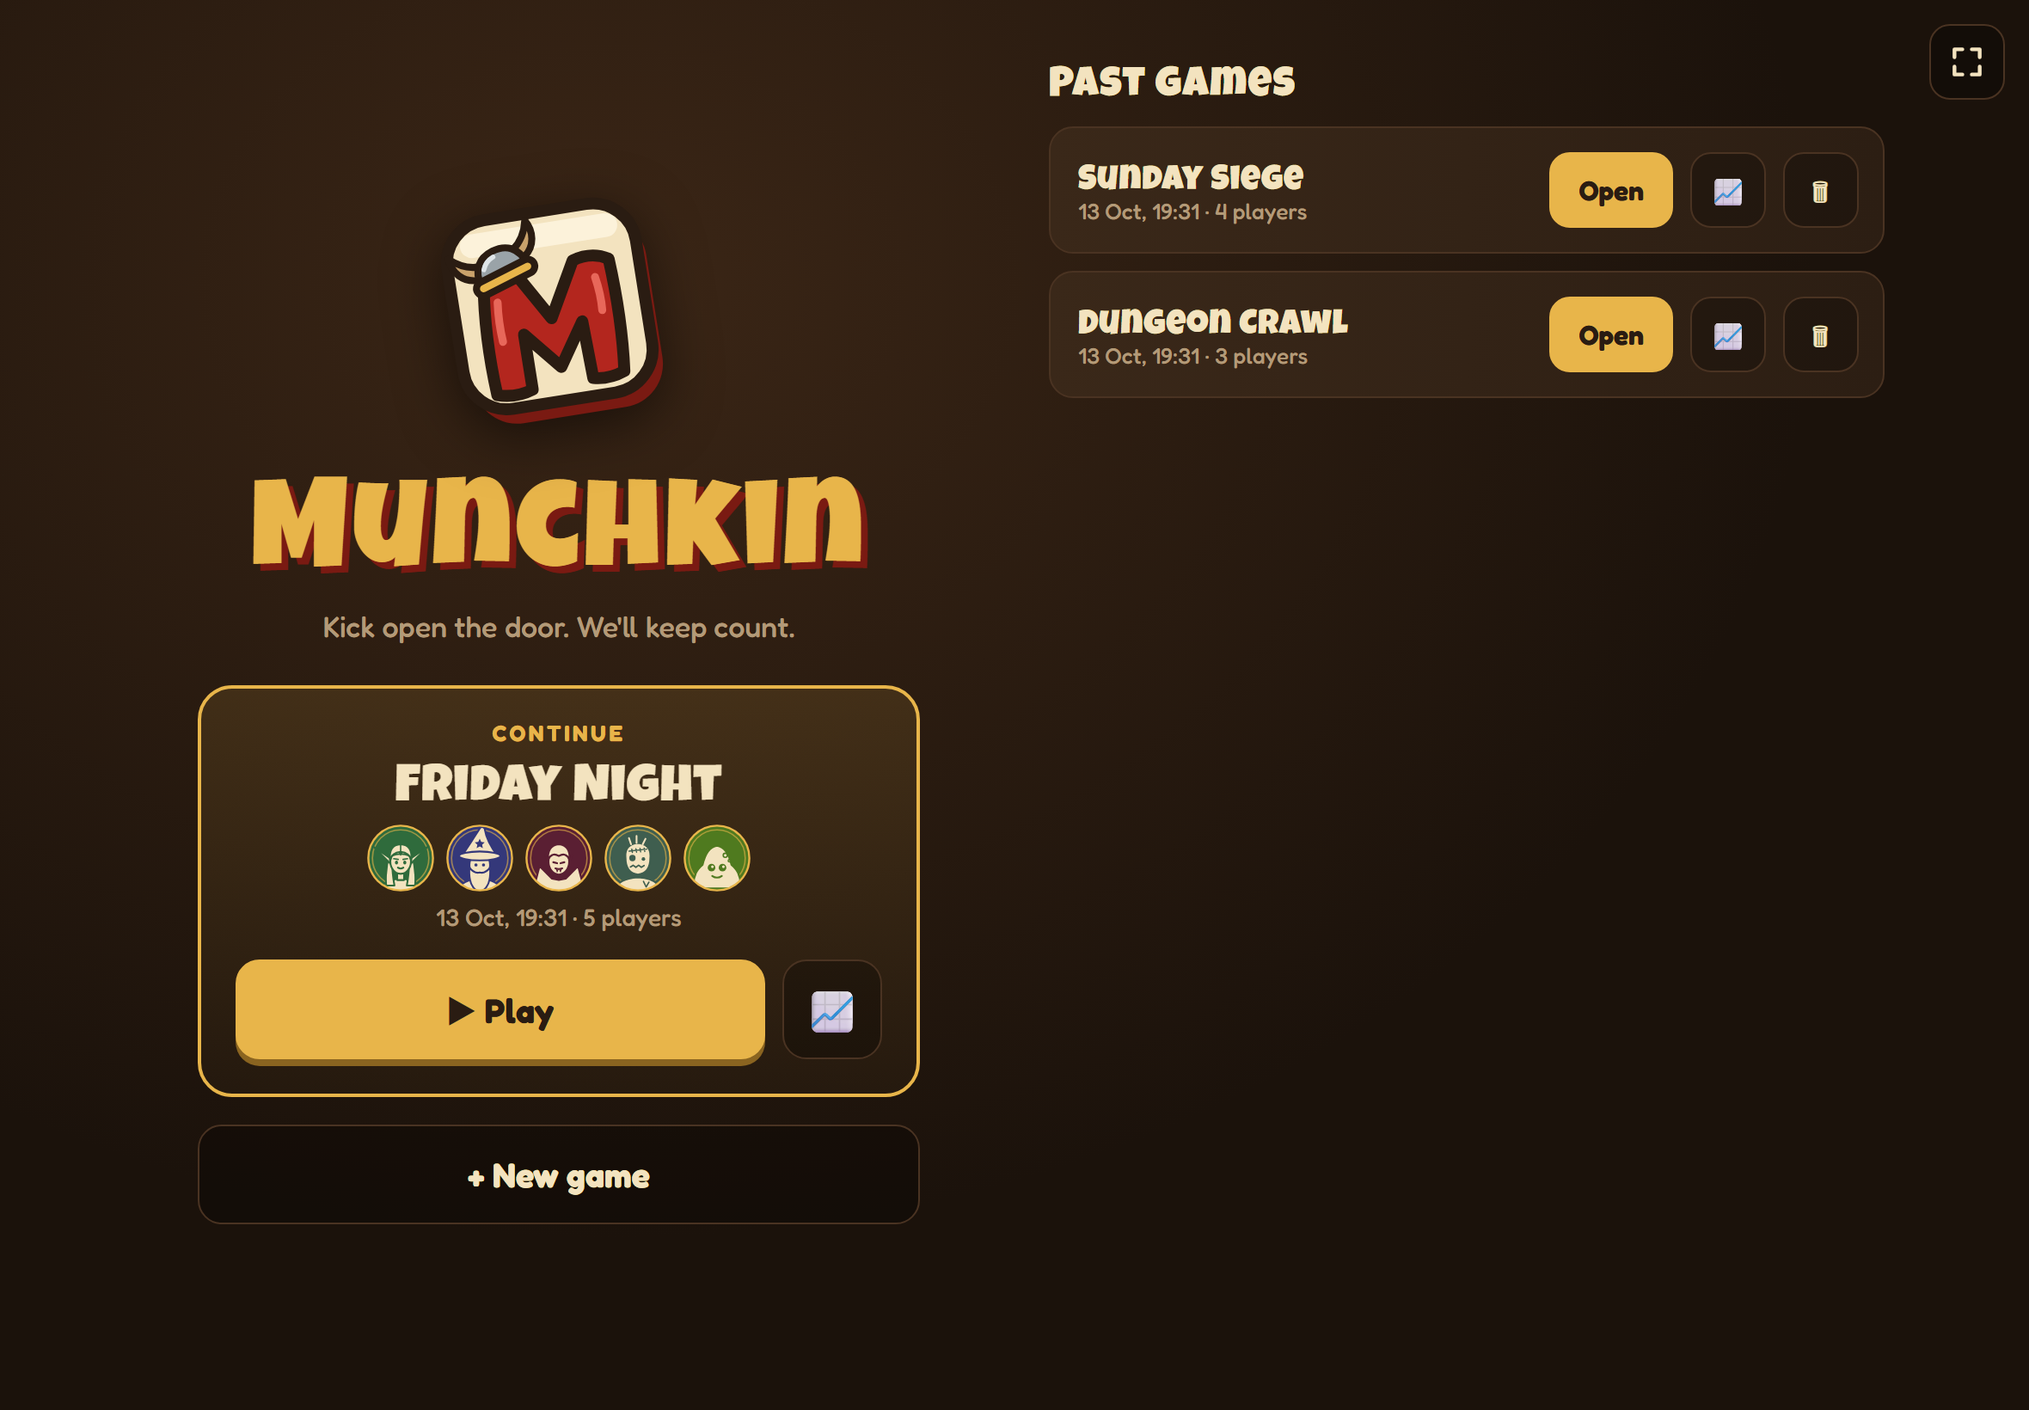
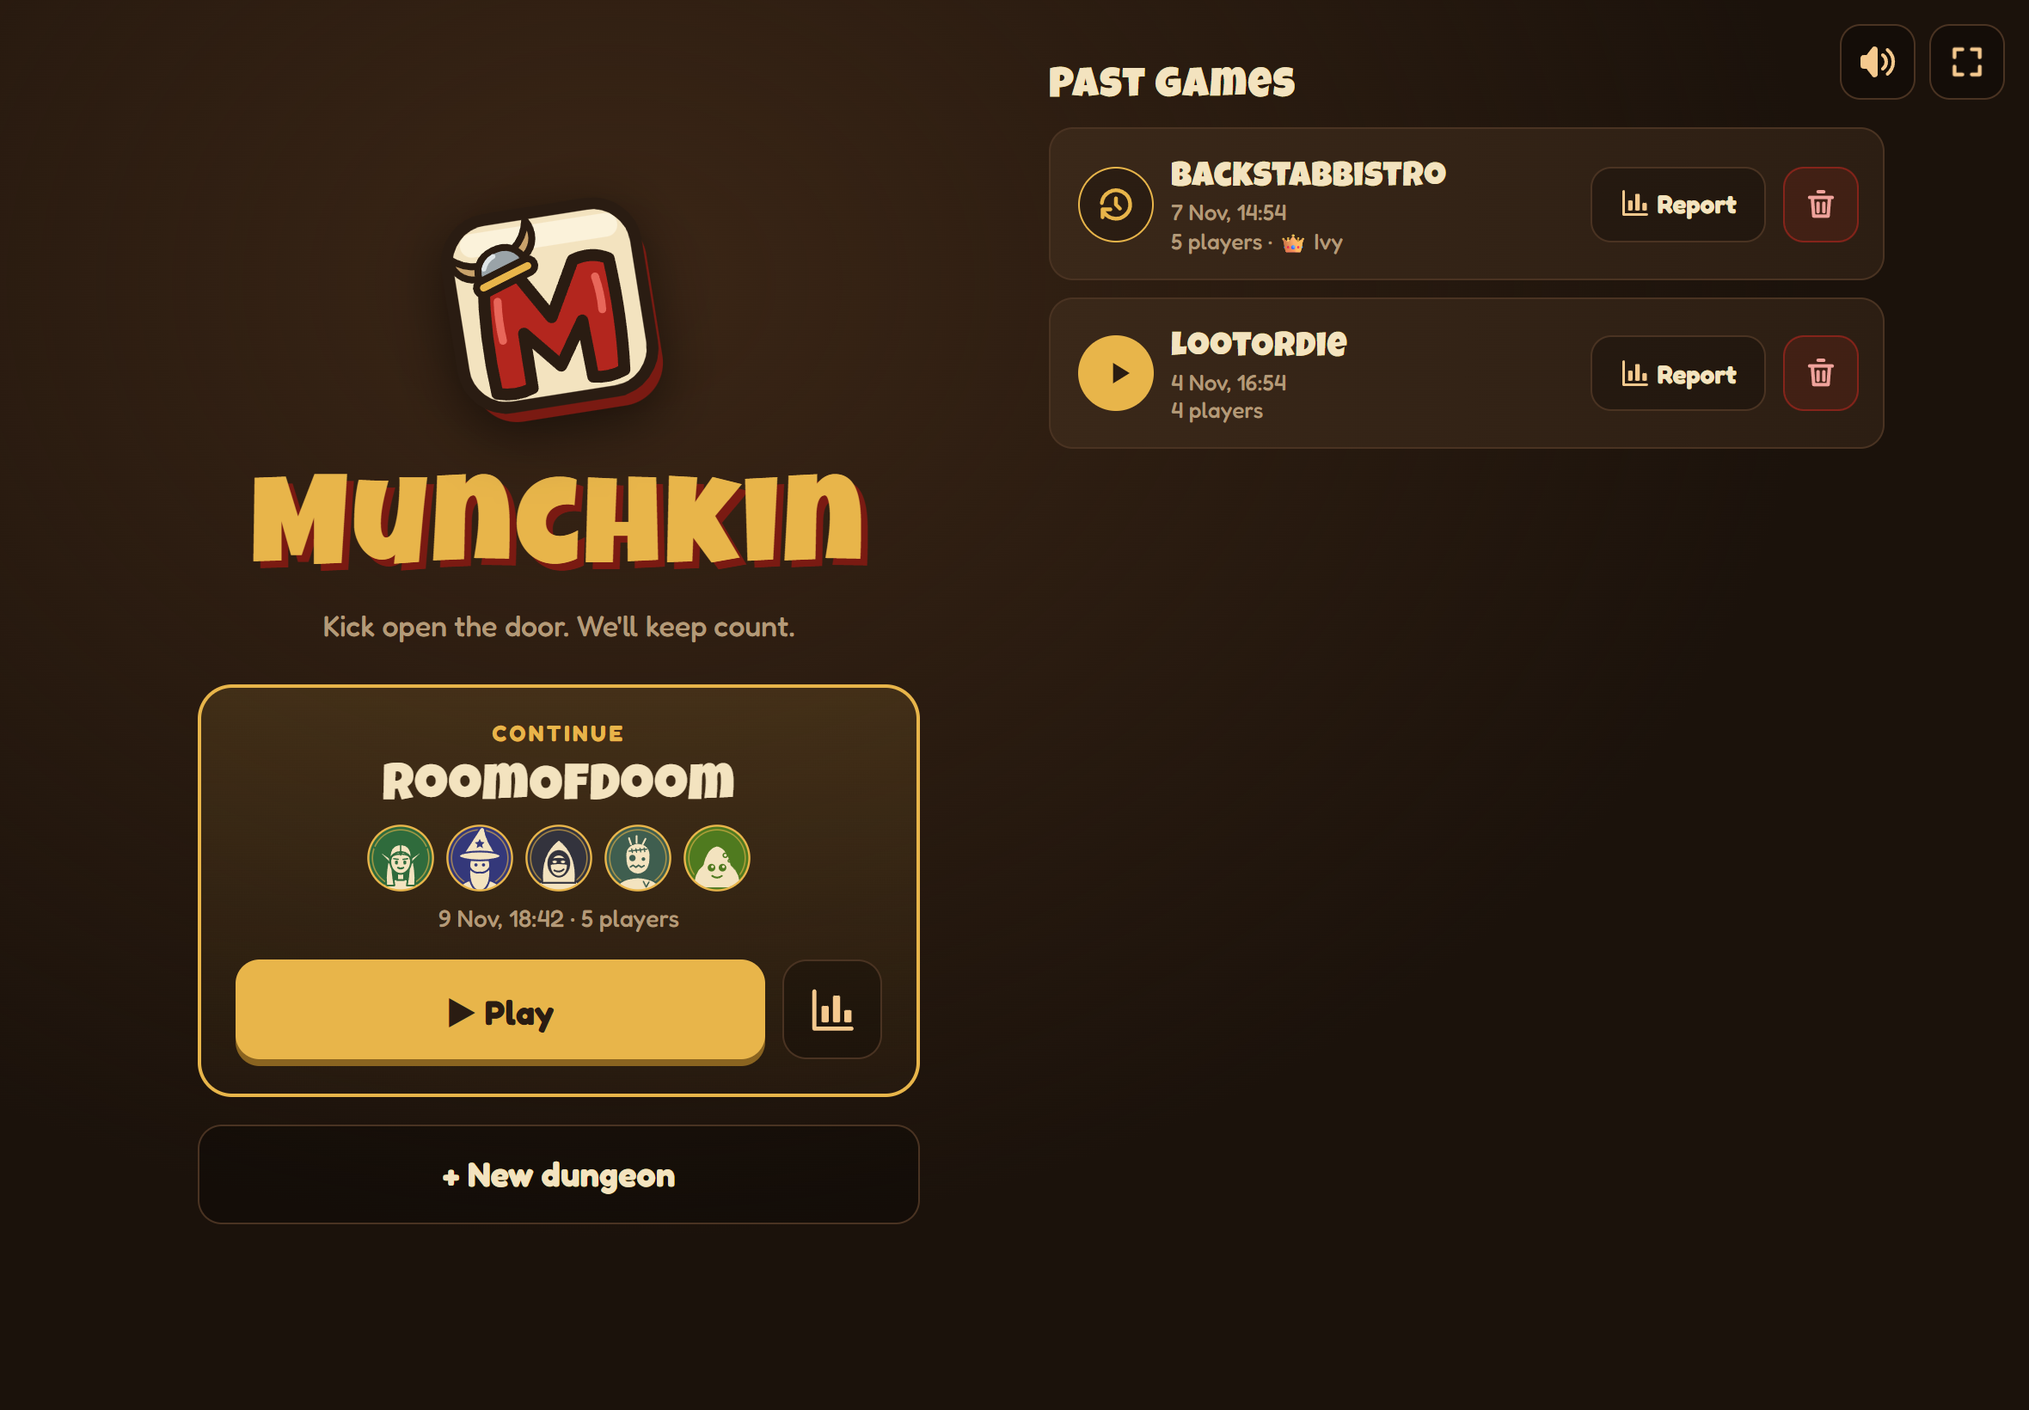
Update docs

diff --git a/munchkin-counter/public/js/shared/win-story.js b/munchkin-counter/public/js/shared/win-story.js
@@ -1,4 +1,4 @@
-// The win popup's text: who won, one fun line about how the game went, and how long it took with how many deaths.
+// The win popup's text: who won, one fun line about how the game went, and how long it took.
 // Pure (no DOM), so it can be tested in Node.
 import { escapeHtml } from './dom.js';
 import { formatElapsed, levelAt } from './report.js';
@@ -44,14 +44,12 @@ function mostBehind(report, winnerId) {
   return most;
 }
 
-const count = (n, one, many) => `${n} ${n === 1 ? one : many}`;
-
 /**
  * @param {ReturnType<typeof import('./report.js').levelReport> | null} report   null if the log couldn't be loaded
  * @param {import('./rules.js').Player[]} players   the game's players now
  * @param {() => number} [random]
- * @returns {{ kind: string, winners: import('./rules.js').Player[], line: string, time: string | null, deaths: string | null }}
- *          time and deaths as text ("1 h 30 min", "2 deaths"); null without the log
+ * @returns {{ kind: string, winners: import('./rules.js').Player[], line: string, time: string | null }}
+ *          time as text ("1 h 30 min"); null without the log
  */
 export function winStory(report, players, random = Math.random) {
   const winners = winnersOf(players);
@@ -62,11 +60,10 @@ export function winStory(report, players, random = Math.random) {
   const who = winners.map((p) => `<b>${escapeHtml(p.name)}</b>`).join(' & ');
 
   const runnerUp = players.filter((p) => p.level < MAX_LEVEL).sort((a, b) => b.level - a.level)[0];
-  if (!report || !winners.length) return { winners, ...pick('plain', {}), time: null, deaths: null };
+  if (!report || !winners.length) return { winners, ...pick('plain', {}), time: null };
 
   const ms = (report.winner?.at ?? report.end) - report.start;
   const time = ms < 60_000 ? 'under a minute' : formatElapsed(ms);
-  const deaths = count(report.tracks.reduce((n, t) => n + t.deaths.length, 0), 'death', 'deaths');
   const behind = mostBehind(report, winners[0].id);
   const gap = runnerUp ? MAX_LEVEL - runnerUp.level : 0;
 
@@ -75,5 +72,5 @@ export function winStory(report, players, random = Math.random) {
   else if (gap >= BLOWOUT_BY) story = pick('blowout', { gap });
   else if (ms > MARATHON_MS) story = pick('marathon', { time });
   else story = pick('plain', {});
-  return { winners, ...story, time, deaths };
+  return { winners, ...story, time };
 }

diff --git a/munchkin-counter/public/js/phone/report.js b/munchkin-counter/public/js/phone/report.js
@@ -29,7 +29,7 @@ export async function showMyReport(view, myId) {
     const log = await fetchLog(view.game.id);
     report = levelReport(log.entries, log.players);
   } catch (err) {
-    openDialog({ title: `${ICONS.report} How it went`, ok: null, cancel: 'Close', body: `<p class="note">${escapeHtml(err.message)}</p>` });
+    openDialog({ title: `${ICONS.report} ${escapeHtml(view.game.name)}`, ok: null, cancel: 'Close', body: `<p class="note">${escapeHtml(err.message)}</p>` });
     return;
   }
   const me = report.tracks.findIndex((t) => t.playerId === myId);
@@ -43,7 +43,7 @@ export async function showMyReport(view, myId) {
       <span class="item"><span class="key others"></span>Everyone else</span>
     </div>
     ${standingsHtml(report, myId)}`;
-  openDialog({ title: `${ICONS.report} How it went`, ok: null, cancel: 'Close', body });
+  openDialog({ title: `${ICONS.report} ${escapeHtml(view.game.name)}`, ok: null, cancel: 'Close', body });
   // the chart and its readout strip share a parent (the sheet), which attachHover searches
   attachHover(/** @type {HTMLElement} */ (document.getElementById('sheet')), report, options);
 }

diff --git a/munchkin-counter/public/css/base.css b/munchkin-counter/public/css/base.css
@@ -98,6 +98,7 @@ button { border: 0; background: none; cursor: pointer; }
   letter-spacing: 0.02em;
   color: var(--gold);
 }
+.sheet h3 .icon { margin-right: 4px; color: var(--parchment); }
 .sheet p { margin: 0 0 14px; font-size: 17px; line-height: 1.45; }
 .sheet .note { color: var(--muted); font-size: 15px; }
 .sheet input[type="text"] {
@@ -301,7 +302,7 @@ button { border: 0; background: none; cursor: pointer; }
 .now-label { color: var(--muted); font-size: 13px; font-weight: 600; letter-spacing: 0.06em; text-transform: uppercase; }
 .now-name { overflow: hidden; font-size: 18px; font-weight: 700; text-overflow: ellipsis; white-space: nowrap; }
 #nextSong { flex: none; display: grid; place-items: center; font-size: 20px; }
-.sound-name .icon { margin-right: 4px; color: var(--gold); }
+.sound-name .icon { margin-right: 4px; color: var(--parchment); }
 .sound-toggle:not(.on) .sound-name .icon { color: var(--muted); }
 .sound-toggle:not(.on) .icon .off { display: inline; }
 #nextSong:disabled { opacity: 0.4; cursor: default; }

diff --git a/munchkin-counter/test/win-story.test.js b/munchkin-counter/test/win-story.test.js
@@ -35,17 +35,17 @@ describe('winStory', () => {
     assert.equal(game(90, 7).kind, 'plain');
   });
 
-  test('the facts: how long and how many deaths', () => {
+  test('the facts: how long it took', () => {
     const s = story(
       [death(5, 'b'), level(6, 'a', 1, 6), level(10, 'b', 1, 7), level(90, 'a', 6, 10)],
       [player('a', 10), player('b', 7)],
     );
-    assert.deepEqual([s.time, s.deaths], ['1 h 30 min', '1 death']);
+    assert.equal(s.time, '1 h 30 min');
   });
 
   test('without the log, a general line and no facts; names are HTML-escaped', () => {
     const s = winStory(null, [player('a', 10)], () => 0);
-    assert.deepEqual([s.kind, s.time, s.deaths], ['plain', null, null]);
+    assert.deepEqual([s.kind, s.time], ['plain', null]);
     const comeback = story([level(10, 'b', 1, 5), level(60, 'a', 1, 10)],
       [player('a', 10, '<img onerror=x>'), player('b', 5)]);
     assert.equal(comeback.kind, 'comeback');

diff --git a/munchkin-counter/public/js/shared/win.js b/munchkin-counter/public/js/shared/win.js
@@ -17,10 +17,9 @@ export async function loadWinStory(gameId, players) {
 /**
  * @param {ReturnType<typeof winStory>} story
  * @param {string} title   HTML
- * @param {{ deaths?: boolean }} [show]   deaths: the number of deaths beside the time
  */
-export function winHtml(story, title, { deaths = true } = {}) {
-  const facts = [story.time && `⏱ ${story.time}`, deaths && story.deaths != null && `💀 ${story.deaths}`].filter(Boolean);
+export function winHtml(story, title) {
+  const facts = story.time ? [`⏱ ${story.time}`] : [];
   return `
     <div class="win">
       <div class="win-avatars">

diff --git a/munchkin-counter/public/js/phone/main.js b/munchkin-counter/public/js/phone/main.js
@@ -76,7 +76,7 @@ async function renderWin(player) {
   const others = winners.filter((p) => p.id !== player.id).map((p) => escapeHtml(p.name));
   const title = mine ? (others.length ? `You & ${others.join(' & ')} win!` : 'You win!')
     : `${others.join(' & ')} ${others.length > 1 ? 'win' : 'wins'}!`;
-  $('winStory').innerHTML = winHtml(story, title, { deaths: mine });     // the others only get how long it took
+  $('winStory').innerHTML = winHtml(story, title);
 }
 
 // A long name gets a smaller font so it fits beside the avatar and strength; past the smallest it ends in "…".

diff --git a/munchkin-counter/public/phone.html b/munchkin-counter/public/phone.html
@@ -75,7 +75,7 @@
 
     <div class="bottom-row">
       <button class="died-button" id="died">💀 I died</button>
-      <button class="report-button" id="report" title="How the game went" aria-label="How the game went" data-icon="report"></button>
+      <button class="report-button" id="report" title="Game report" aria-label="Game report" data-icon="report"></button>
     </div>
     <button class="switch" id="switchPlayer">Switch player</button>
   </section>

diff --git a/munchkin-counter/docs/DEVELOPMENT.md b/munchkin-counter/docs/DEVELOPMENT.md
@@ -13,7 +13,7 @@ npm run typecheck   # type checks the JavaScript from its JSDoc comments (tsconf
 npm run check       # all three, as the pull request checks do
 ```
 
-Open `/#sounds` on the dashboard to hear every sound.
+Open the dashboard with `#sounds` to hear every sound effect, or `#music` to listen to each tune.
 
 | Variable     | Default           | Purpose                                                  |
 |--------------|-------------------|----------------------------------------------------------|
@@ -59,16 +59,21 @@ public/                   browser (plain ES modules, no build step)
   img/avatars/*.svg       player avatars, one token each, drawn by art/avatars.mjs (run it after changing one;
                           the ids must match AVATARS in js/shared/rules.js, a test checks it)
   media/wake.*            tiny silent video that keeps the screen on over plain http
+  audio/instruments/      recorded notes for the music (FluidR3_GM, CC BY 3.0, see CREDITS.md there): only the
+                          notes the tunes use, a note every three semitones
   manifest.webmanifest    web app manifest (home screen opens full screen)
   js/shared/              rules.js (also used by the server; the Player and View types every screen gets),
                           activity (log dialog), api, avatars (the avatar pictures as HTML), dialog, dom,
-                          format, games, report (levels over the game from the log, pure), report-chart (its
-                          chart, full or compact), screen, storage;
+                          dungeon-names (+ New dungeon's suggestions), format, games, icons (line icons),
+                          report (levels over the game from the log, pure), report-chart (its chart, full or
+                          compact), screen, sex-icons, storage, win + win-story (the win popup / card);
                           device-check.js (plain script: sends phones to /join, keeps tablets and TVs)
-  js/app.js               tablet / TV entry: switches between the start page and dashboard views
+  js/app.js               tablet / TV entry: switches between the start page and dashboard views, owns the
+                          sound effects and music (shared by both views)
   js/lobby/               start page (lobby.js)
   js/table/               dashboard: dashboard.js, board, sizing, dialogs, report (chart dialog),
-                          announcer (situations, pure) + lines (texts) + ticker (UI), sounds
+                          announcer (situations, pure) + lines (texts) + ticker (UI), sounds (effects),
+                          music (player) + tunes (the original tunes, as text notation), sound-settings (popup)
   js/phone/               phone controls (main.js) and the phone's simpler report (report.js)
 
 test/                     node:test suites
@@ -86,7 +91,7 @@ Screens send `source: "dashboard"` or `"phone"` with their actions so the log ca
 came from. The log isn't part of the live view (it would grow every update); screens fetch it from
 `GET /api/log?game=<id>` when it's opened.
 
-**Actions:** `addPlayer`, `removePlayer`, `setAvatar`, `setSex`, `changeLevel`, `setLevel`, `changeGear`, `die`,
+**Actions:** `addPlayer`, `removePlayer`, `setAvatar`, `setSex`, `changeLevel`, `setLevel`, `changeGear`, `undoWin`, `die`,
 `newGame`, `switchGame`, `deleteGame`. See `src/game/actions.js`.
 
 **Saved data** is versioned (`schema`). `normalizeState` upgrades older files on load, so
@@ -99,6 +104,15 @@ version reloads itself.
 and the dashboard are two views of `index.html`. `js/app.js` switches between them with
 `history.pushState` (the address still changes to `/table` and back, and the back button works). The
 dashboard's announcer, sounds and level watching only run while its view is shown.
+
+**Music:** `js/table/music.js` plays the tunes in `js/table/tunes.js` with the Web Audio API: each note is the
+nearest recorded note in `public/audio/instruments/`, played slightly faster or slower, scheduled a little ahead.
+The start page plays one tune; a game shuffles the rest (the order is kept per screen in localStorage). If you add
+a tune that goes lower or higher than the others, check its notes still have a recording near them.
+
+**Winning:** a player at level 10 ends the game. Changes to its players are refused (409) until `undoWin` puts the
+winner back to their level before; starting, switching and deleting games still work. A game with a winner is
+listed under past games with a recap instead of resume.
 
 **Home-screen icons over https:** the tablet doesn't trust the add-on's own certificate, and "Add to Home
 Screen" then may not download the icons (it shows a plain letter). So over https, `src/app.js` puts

diff --git a/munchkin-counter/DOCS.md b/munchkin-counter/DOCS.md
@@ -50,7 +50,7 @@ address (e.g. `http://<homeassistant-ip>:3000/?dashboard`); it remembers. Use `?
   after a Change Sex curse. It carries over when a new game keeps the same players.
 - **Avatar**: every player gets a character token (races, classes, monsters and dungeon loot). Tap yours on
   the phone to pick another.
-- **Players**: up to 6 per game, as in Munchkin. Once 6 have joined, the add-player button is greyed out and phones can only
+- **Players**: up to 6 per game, as in Munchkin, with names of up to 14 letters (so they fit on every screen). Once 6 have joined, the add-player button is greyed out and phones can only
   pick an existing player; removing one frees the seat.
 - **+ New dungeon** (on the start page) adds a game to the list, with a suggested name (🎲 for another). Old games
   are kept under **Past games**, finished ones too: tap ▶ (or the name) to resume one nobody has won yet, 🕘 to see
@@ -76,7 +76,7 @@ and the standings as a list. It's built from the activity log, so in a very long
 ### Sound
 
 The dashboard plays a sound for a win, a death, someone reaching level 9, someone stuck at level 1,
-negative gear, and level changes. Tap the screen once after opening it (browsers only allow sound after a tap).
+negative gear, level changes, and a change of sex. Tap the screen once after opening it (browsers only allow sound after a tap).
 Add `#sounds` to the end of the address to hear every sound.
 
 There's also quiet Renaissance tavern music: original tunes of about 3 minutes each (tavern, dungeon, spooky,
@@ -84,7 +84,7 @@ mystery, adventure and a comic bassoon), played in random order, each fading int
 Torchlight Fading. Add `#music` to the end of the address to listen to each tune.
 
 The speaker button (on the dashboard's top bar and in the start page's corner) opens the **Sound** settings: sound
-effects on or off, music on or off, and the music's volume. It works with a TV remote too: the arrows move between
+effects on or off, music on or off, the music's volume, the song that's playing and ⏭ to skip it. It works with a TV remote too: the arrows move between
 the rows (left and right change the volume), OK selects, Back closes. Each screen remembers its own settings, and
 where it was in the shuffled music.
 

diff --git a/README.md b/README.md
@@ -4,11 +4,13 @@ A level counter for the Munchkin card game, as a Home Assistant add-on.
 
 A tablet (or TV) shows every player at the table, and each player controls their own
 level and gear from their phone by scanning a QR code. Munchkin rules are built in,
-with an announcer, sound effects and a game history.
+with an announcer, sound effects, background music and a game history.
 
 ![Munchkin Counter on a tablet and a phone](images/hero.png)
 
-![Start page with past games](images/start-page.png)
+![Start page with the current game and past games](images/start-page.png)
+
+![A win: the popup on the tablet and the card on the winner's phone](images/win.png)
 
 ![Game report: every player's level over the game, on the tablet and on a phone](images/report.png)
 
@@ -32,6 +34,7 @@ Tablet/TV dashboard and phone controls for Munchkin, over your home network.
 - Levels 1–10, gear, strength, and Munchkin death rules
 - Male / female characters and character avatars
 - Munchkin-style announcer and sound effects
+- Background music: original tavern and dungeon tunes
 - Start page with past games
 - Game report: every player's level over the whole game
 

diff --git a/munchkin-counter/README.md b/munchkin-counter/README.md
@@ -9,7 +9,8 @@ and each player controls their own level and gear from their phone by scanning a
 - Phone controls: players join by QR code, no app or login needed
 - Munchkin rules built in: levels 1–10, death keeps your level but loses your gear, male / female characters
 - Announcer with Munchkin-style table talk and sound effects
-- Start page: continue the current game, start a new one, or reopen a past game
+- Background music: original tavern and dungeon tunes in random order
+- Start page: continue the current game, start a new dungeon, or reopen a past game
 - Activity log per game: who changed what, when, from the tablet or a phone
 - Game report: a chart of every player's level over the whole game, with deaths and the winner
 - Live updates on every screen

diff --git a/munchkin-counter/CHANGELOG.md b/munchkin-counter/CHANGELOG.md
@@ -7,6 +7,7 @@
 - Start page improvements
 - Phone improvements
 - Background music
+- Sound settings, new icons
 
 ## 2.9.0
 - Up to 6 players, dashboard layout fixes
